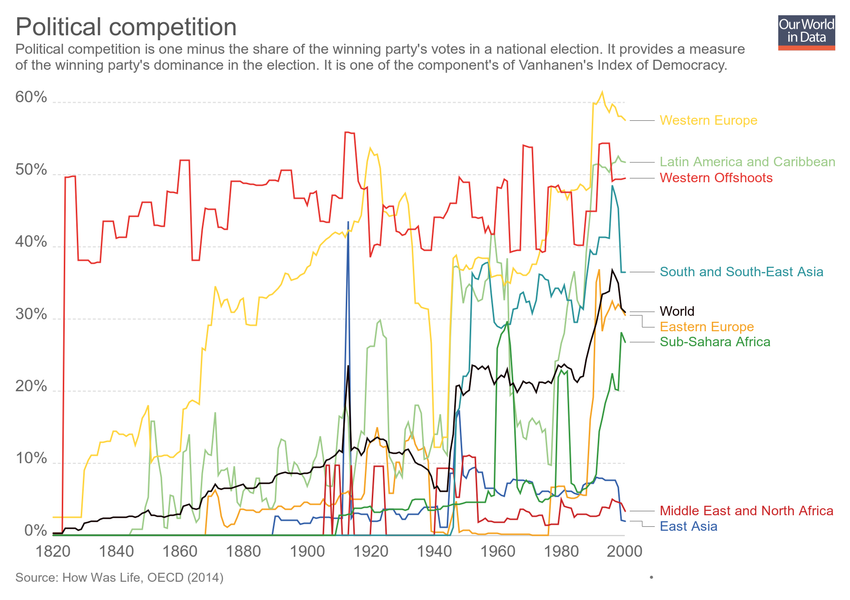
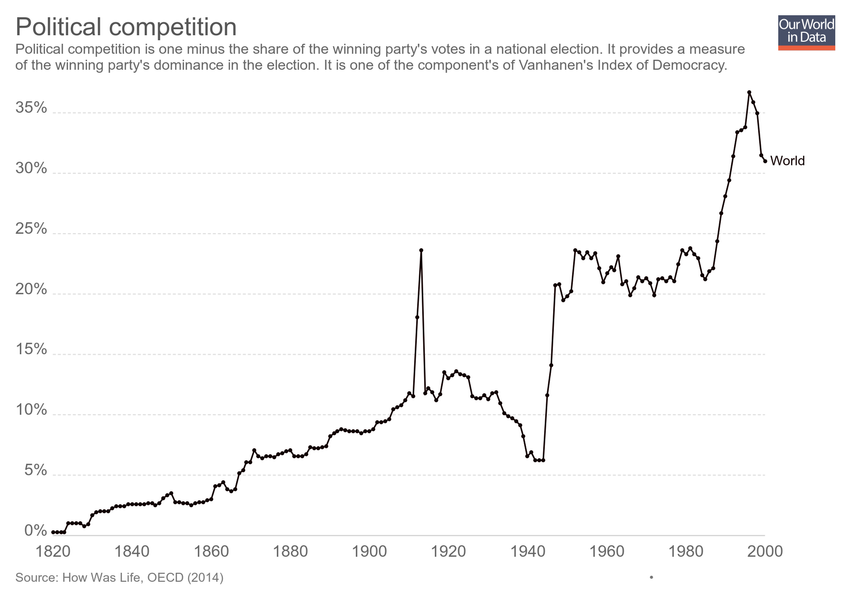
Updating chart political-competition-iod

diff --git a/grapher/rate-of-internationally-observed-elections.html b/grapher/rate-of-internationally-observed-elections.html
@@ -1,4 +1,4 @@
-<!doctype html><html><head><meta name="viewport" content="width=device-width, initial-scale=1" /><title>Internationally observed elections (%) - Our World in Data</title><meta name="description" content="Percentage of internationally observed elections and whether they were criticized by international observers. Figures cover 1,754 election events in 157 independent states, excluding those with population less than 250,000." /><link rel="canonical" href="https://ourworldindata.org/grapher/rate-of-internationally-observed-elections" /><meta property="fb:app_id" content="1149943818390250" /><meta property="og:url" content="https://ourworldindata.org/grapher/rate-of-internationally-observed-elections" /><meta property="og:title" content="Internationally observed elections (%)" /><meta property="og:description" content="Percentage of internationally observed elections and whether they were criticized by international observers. Figures cover 1,754 election events in 157 independent states, excluding those with population less than 250,000." /><meta property="og:image" content="https://ourworldindata.org/grapher/exports/rate-of-internationally-observed-elections.png?v=16" /><meta property="og:image:width" content="850" /><meta property="og:image:height" content="600" /><meta property="og:site_name" content="Our World in Data" /><meta name="twitter:card" content="summary_large_image" /><meta name="twitter:site" content="@OurWorldInData" /><meta name="twitter:creator" content="@OurWorldInData" /><meta name="twitter:title" content="Internationally observed elections (%)" /><meta name="twitter:description" content="Percentage of internationally observed elections and whether they were criticized by international observers. Figures cover 1,754 election events in 157 independent states, excluding those with population less than 250,000." /><meta name="twitter:image" content="https://ourworldindata.org/grapher/exports/rate-of-internationally-observed-elections.png?v=16" /><style>
+<!doctype html><html><head><meta name="viewport" content="width=device-width, initial-scale=1" /><title>Internationally observed elections by Western monitors - Our World in Data</title><meta name="description" content="Estimates correspond to the number of international elections that were either observed and criticized by Western monitors, observed and not criticized by Western monitors, or elections that were not observed by Western monitors. Criticism refers to allegations of significant vote-fraud." /><link rel="canonical" href="https://ourworldindata.org/grapher/rate-of-internationally-observed-elections" /><meta property="fb:app_id" content="1149943818390250" /><meta property="og:url" content="https://ourworldindata.org/grapher/rate-of-internationally-observed-elections" /><meta property="og:title" content="Internationally observed elections by Western monitors" /><meta property="og:description" content="Estimates correspond to the number of international elections that were either observed and criticized by Western monitors, observed and not criticized by Western monitors, or elections that were not observed by Western monitors. Criticism refers to allegations of significant vote-fraud." /><meta property="og:image" content="https://ourworldindata.org/grapher/exports/rate-of-internationally-observed-elections.png?v=11" /><meta property="og:image:width" content="850" /><meta property="og:image:height" content="600" /><meta property="og:site_name" content="Our World in Data" /><meta name="twitter:card" content="summary_large_image" /><meta name="twitter:site" content="@OurWorldInData" /><meta name="twitter:creator" content="@OurWorldInData" /><meta name="twitter:title" content="Internationally observed elections by Western monitors" /><meta name="twitter:description" content="Estimates correspond to the number of international elections that were either observed and criticized by Western monitors, observed and not criticized by Western monitors, or elections that were not observed by Western monitors. Criticism refers to allegations of significant vote-fraud." /><meta name="twitter:image" content="https://ourworldindata.org/grapher/exports/rate-of-internationally-observed-elections.png?v=11" /><style>
         html, body {
             height: 100%;
             margin: 0;
@@ -20,8 +20,8 @@
         }
     </style><noscript><style>
                     figure { display: none !important; }
-                </style></noscript><link rel="stylesheet" href="https://ourworldindata.org/grapher/assets/commons.bundle.ac09ff8f098f0c7be836.css" /><link rel="preload" href="/grapher/data/variables/97378+97379.json?v=16" as="fetch" crossorigin /></head><body class="singleChart"><figure data-grapher-src="/grapher/rate-of-internationally-observed-elections"></figure><noscript id="fallback"><img src="/grapher/exports/rate-of-internationally-observed-elections.svg" /><p>Interactive visualization requires JavaScript</p></noscript><script src="https://cdn.polyfill.io/v2/polyfill.min.js?features=es6,fetch"></script><script src="https://ourworldindata.org/grapher/assets/commons.bundle.ac09ff8f098f0c7be836.js"></script><script src="https://ourworldindata.org/grapher/assets/charts.bundle.dcf65b68eddaba4c6a58.js"></script><script>
-        var jsonConfig = {"id":2589,"map":{"projection":"World","colorSchemeLabels":[],"colorSchemeValues":[],"colorSchemeMinValue":0,"customNumericColors":[],"customCategoryColors":{},"customCategoryLabels":{},"customHiddenCategories":{}},"tab":"chart","slug":"rate-of-internationally-observed-elections","type":"StackedArea","title":"Internationally observed elections (%)","xAxis":{"scaleType":"linear"},"yAxis":{"max":80,"min":0,"scaleType":"linear"},"version":16,"subtitle":"Percentage of internationally observed elections and whether they were criticized by international observers. Figures cover 1,754 election events in 157 independent states, excluding those with population less than 250,000.","hasMapTab":false,"stackMode":"absolute","dimensions":[{"display":{"name":"Percent of elections observed and criticised","unit":"%"},"property":"y","variableId":97378},{"display":{"name":"Percent of elections observed and not criticised"},"property":"y","variableId":97379}],"hasChartTab":true,"isPublished":true,"selectedData":[{"index":0,"entityId":355},{"index":1,"entityId":355}],"addCountryMode":"change-country","baseColorScheme":"Plasma","hideRelativeToggle":true,"hideTitleAnnotation":true};
+                </style></noscript><link rel="stylesheet" href="https://ourworldindata.org/grapher/assets/commons.bundle.ac09ff8f098f0c7be836.css" /><link rel="preload" href="/grapher/data/variables/97399+97400+97401.json?v=11" as="fetch" crossorigin /></head><body class="singleChart"><figure data-grapher-src="/grapher/rate-of-internationally-observed-elections"></figure><noscript id="fallback"><img src="/grapher/exports/rate-of-internationally-observed-elections.svg" /><p>Interactive visualization requires JavaScript</p></noscript><script src="https://cdn.polyfill.io/v2/polyfill.min.js?features=es6,fetch"></script><script src="https://ourworldindata.org/grapher/assets/commons.bundle.ac09ff8f098f0c7be836.js"></script><script src="https://ourworldindata.org/grapher/assets/charts.bundle.dcf65b68eddaba4c6a58.js"></script><script>
+        var jsonConfig = {"id":2598,"map":{"projection":"World","colorSchemeLabels":[],"colorSchemeValues":[],"customNumericColors":[],"customCategoryColors":{},"customCategoryLabels":{},"customHiddenCategories":{}},"tab":"chart","note":"Includes 2435 election events in 162 countries","slug":"rate-of-internationally-observed-elections","type":"StackedArea","title":"Internationally observed elections by Western monitors","xAxis":{"scaleType":"linear"},"yAxis":{"min":0,"scaleType":"linear"},"version":11,"subtitle":"Estimates correspond to the number of international elections that were either observed and criticized by Western monitors, observed and not criticized by Western monitors, or elections that were not observed by Western monitors. Criticism refers to allegations of significant vote-fraud.","hasMapTab":false,"stackMode":"relative","dimensions":[{"display":{"name":"Elections not observed","unit":"elections","shortUnit":""},"property":"y","variableId":97399},{"display":{"name":"Elections observed and criticized"},"property":"y","variableId":97400},{"display":{"name":"Elections observed and not critcized"},"property":"y","variableId":97401}],"hasChartTab":true,"isPublished":true,"selectedData":[{"color":"#3360a9","index":0,"entityId":355},{"color":"#5eb77e","index":2,"entityId":355},{"color":"#ca2628","index":1,"entityId":355}],"addCountryMode":"change-country","baseColorScheme":"owid-distinct","invertColorScheme":true,"hideTitleAnnotation":true};
         var figure = document.getElementsByTagName("figure")[0];
         try {
             window.App = {};

diff --git a/grapher/political-competition-iod.html b/grapher/political-competition-iod.html
@@ -1,4 +1,4 @@
-<!doctype html><html><head><meta name="viewport" content="width=device-width, initial-scale=1" /><title>Political competition - Our World in Data</title><meta name="description" content="Political competition is one minus the share of the winning party's votes in a national election. It provides a measure of the winning party's dominance in the election. It is one of the component's of Vanhanen's Index of Democracy." /><link rel="canonical" href="https://ourworldindata.org/grapher/political-competition-iod" /><meta property="fb:app_id" content="1149943818390250" /><meta property="og:url" content="https://ourworldindata.org/grapher/political-competition-iod" /><meta property="og:title" content="Political competition" /><meta property="og:description" content="Political competition is one minus the share of the winning party's votes in a national election. It provides a measure of the winning party's dominance in the election. It is one of the component's of Vanhanen's Index of Democracy." /><meta property="og:image" content="https://ourworldindata.org/grapher/exports/political-competition-iod.png?v=4" /><meta property="og:image:width" content="850" /><meta property="og:image:height" content="600" /><meta property="og:site_name" content="Our World in Data" /><meta name="twitter:card" content="summary_large_image" /><meta name="twitter:site" content="@OurWorldInData" /><meta name="twitter:creator" content="@OurWorldInData" /><meta name="twitter:title" content="Political competition" /><meta name="twitter:description" content="Political competition is one minus the share of the winning party's votes in a national election. It provides a measure of the winning party's dominance in the election. It is one of the component's of Vanhanen's Index of Democracy." /><meta name="twitter:image" content="https://ourworldindata.org/grapher/exports/political-competition-iod.png?v=4" /><style>
+<!doctype html><html><head><meta name="viewport" content="width=device-width, initial-scale=1" /><title>Political competition - Our World in Data</title><meta name="description" content="Political competition is one minus the share of the winning party's votes in a national election. It provides a measure of the winning party's dominance in the election. It is one of the component's of Vanhanen's Index of Democracy." /><link rel="canonical" href="https://ourworldindata.org/grapher/political-competition-iod" /><meta property="fb:app_id" content="1149943818390250" /><meta property="og:url" content="https://ourworldindata.org/grapher/political-competition-iod" /><meta property="og:title" content="Political competition" /><meta property="og:description" content="Political competition is one minus the share of the winning party's votes in a national election. It provides a measure of the winning party's dominance in the election. It is one of the component's of Vanhanen's Index of Democracy." /><meta property="og:image" content="https://ourworldindata.org/grapher/exports/political-competition-iod.png?v=5" /><meta property="og:image:width" content="850" /><meta property="og:image:height" content="600" /><meta property="og:site_name" content="Our World in Data" /><meta name="twitter:card" content="summary_large_image" /><meta name="twitter:site" content="@OurWorldInData" /><meta name="twitter:creator" content="@OurWorldInData" /><meta name="twitter:title" content="Political competition" /><meta name="twitter:description" content="Political competition is one minus the share of the winning party's votes in a national election. It provides a measure of the winning party's dominance in the election. It is one of the component's of Vanhanen's Index of Democracy." /><meta name="twitter:image" content="https://ourworldindata.org/grapher/exports/political-competition-iod.png?v=5" /><style>
         html, body {
             height: 100%;
             margin: 0;
@@ -20,8 +20,8 @@
         }
     </style><noscript><style>
                     figure { display: none !important; }
-                </style></noscript><link rel="stylesheet" href="https://ourworldindata.org/grapher/assets/commons.bundle.ac09ff8f098f0c7be836.css" /><link rel="preload" href="/grapher/data/variables/85933.json?v=4" as="fetch" crossorigin /></head><body class="singleChart"><figure data-grapher-src="/grapher/political-competition-iod"></figure><noscript id="fallback"><img src="/grapher/exports/political-competition-iod.svg" /><p>Interactive visualization requires JavaScript</p></noscript><script src="https://cdn.polyfill.io/v2/polyfill.min.js?features=es6,fetch"></script><script src="https://ourworldindata.org/grapher/assets/commons.bundle.ac09ff8f098f0c7be836.js"></script><script src="https://ourworldindata.org/grapher/assets/charts.bundle.dcf65b68eddaba4c6a58.js"></script><script>
-        var jsonConfig = {"id":2341,"map":{"projection":"World","colorSchemeLabels":[],"colorSchemeValues":[],"colorSchemeMinValue":0,"customNumericColors":[],"customCategoryColors":{},"customCategoryLabels":{},"customHiddenCategories":{}},"tab":"chart","slug":"political-competition-iod","type":"LineChart","title":"Political competition","xAxis":{"scaleType":"linear"},"yAxis":{"min":0,"scaleType":"linear"},"version":4,"subtitle":"Political competition is one minus the share of the winning party's votes in a national election. It provides a measure of the winning party's dominance in the election. It is one of the component's of Vanhanen's Index of Democracy.","hasMapTab":false,"stackMode":"absolute","dimensions":[{"display":{},"property":"y","variableId":85933}],"hasChartTab":true,"isPublished":true,"selectedData":[{"index":0,"entityId":34613},{"index":0,"entityId":473},{"index":0,"entityId":34620},{"index":0,"entityId":301},{"index":0,"entityId":36553},{"index":0,"entityId":36554},{"index":0,"entityId":476},{"index":0,"entityId":36437},{"color":"#100","index":0,"entityId":355}],"addCountryMode":"add-country"};
+                </style></noscript><link rel="stylesheet" href="https://ourworldindata.org/grapher/assets/commons.bundle.ac09ff8f098f0c7be836.css" /><link rel="preload" href="/grapher/data/variables/85933.json?v=5" as="fetch" crossorigin /></head><body class="singleChart"><figure data-grapher-src="/grapher/political-competition-iod"></figure><noscript id="fallback"><img src="/grapher/exports/political-competition-iod.svg" /><p>Interactive visualization requires JavaScript</p></noscript><script src="https://cdn.polyfill.io/v2/polyfill.min.js?features=es6,fetch"></script><script src="https://ourworldindata.org/grapher/assets/commons.bundle.ac09ff8f098f0c7be836.js"></script><script src="https://ourworldindata.org/grapher/assets/charts.bundle.dcf65b68eddaba4c6a58.js"></script><script>
+        var jsonConfig = {"id":2341,"map":{"projection":"World","colorSchemeLabels":[],"colorSchemeValues":[],"colorSchemeMinValue":0,"customNumericColors":[],"customCategoryColors":{},"customCategoryLabels":{},"customHiddenCategories":{}},"tab":"chart","slug":"political-competition-iod","type":"LineChart","title":"Political competition","xAxis":{"scaleType":"linear"},"yAxis":{"min":0,"scaleType":"linear"},"version":5,"subtitle":"Political competition is one minus the share of the winning party's votes in a national election. It provides a measure of the winning party's dominance in the election. It is one of the component's of Vanhanen's Index of Democracy.","hasMapTab":false,"stackMode":"absolute","dimensions":[{"display":{},"property":"y","variableId":85933}],"hasChartTab":true,"isPublished":true,"selectedData":[{"color":"#100","index":0,"entityId":355}],"addCountryMode":"add-country"};
         var figure = document.getElementsByTagName("figure")[0];
         try {
             window.App = {};

diff --git a/grapher/political-participation-iod.html b/grapher/political-participation-iod.html
@@ -1,4 +1,4 @@
-<!doctype html><html><head><meta name="viewport" content="width=device-width, initial-scale=1" /><title>Political participation - Our World in Data</title><meta name="description" content="Share of the adult population who voted in previous elections.  It is one of the component's of Vanhanen's Index of Democracy, alongside political competition." /><link rel="canonical" href="https://ourworldindata.org/grapher/political-participation-iod" /><meta property="fb:app_id" content="1149943818390250" /><meta property="og:url" content="https://ourworldindata.org/grapher/political-participation-iod" /><meta property="og:title" content="Political participation" /><meta property="og:description" content="Share of the adult population who voted in previous elections.  It is one of the component's of Vanhanen's Index of Democracy, alongside political competition." /><meta property="og:image" content="https://ourworldindata.org/grapher/exports/political-participation-iod.png?v=6" /><meta property="og:image:width" content="850" /><meta property="og:image:height" content="600" /><meta property="og:site_name" content="Our World in Data" /><meta name="twitter:card" content="summary_large_image" /><meta name="twitter:site" content="@OurWorldInData" /><meta name="twitter:creator" content="@OurWorldInData" /><meta name="twitter:title" content="Political participation" /><meta name="twitter:description" content="Share of the adult population who voted in previous elections.  It is one of the component's of Vanhanen's Index of Democracy, alongside political competition." /><meta name="twitter:image" content="https://ourworldindata.org/grapher/exports/political-participation-iod.png?v=6" /><style>
+<!doctype html><html><head><meta name="viewport" content="width=device-width, initial-scale=1" /><title>Political participation - Our World in Data</title><meta name="description" content="Share of the adult population who voted in previous elections.  It is one of the component's of Vanhanen's Index of Democracy, alongside political competition." /><link rel="canonical" href="https://ourworldindata.org/grapher/political-participation-iod" /><meta property="fb:app_id" content="1149943818390250" /><meta property="og:url" content="https://ourworldindata.org/grapher/political-participation-iod" /><meta property="og:title" content="Political participation" /><meta property="og:description" content="Share of the adult population who voted in previous elections.  It is one of the component's of Vanhanen's Index of Democracy, alongside political competition." /><meta property="og:image" content="https://ourworldindata.org/grapher/exports/political-participation-iod.png?v=8" /><meta property="og:image:width" content="850" /><meta property="og:image:height" content="600" /><meta property="og:site_name" content="Our World in Data" /><meta name="twitter:card" content="summary_large_image" /><meta name="twitter:site" content="@OurWorldInData" /><meta name="twitter:creator" content="@OurWorldInData" /><meta name="twitter:title" content="Political participation" /><meta name="twitter:description" content="Share of the adult population who voted in previous elections.  It is one of the component's of Vanhanen's Index of Democracy, alongside political competition." /><meta name="twitter:image" content="https://ourworldindata.org/grapher/exports/political-participation-iod.png?v=8" /><style>
         html, body {
             height: 100%;
             margin: 0;
@@ -20,8 +20,8 @@
         }
     </style><noscript><style>
                     figure { display: none !important; }
-                </style></noscript><link rel="stylesheet" href="https://ourworldindata.org/grapher/assets/commons.bundle.ac09ff8f098f0c7be836.css" /><link rel="preload" href="/grapher/data/variables/85932.json?v=6" as="fetch" crossorigin /></head><body class="singleChart"><figure data-grapher-src="/grapher/political-participation-iod"></figure><noscript id="fallback"><img src="/grapher/exports/political-participation-iod.svg" /><p>Interactive visualization requires JavaScript</p></noscript><script src="https://cdn.polyfill.io/v2/polyfill.min.js?features=es6,fetch"></script><script src="https://ourworldindata.org/grapher/assets/commons.bundle.ac09ff8f098f0c7be836.js"></script><script src="https://ourworldindata.org/grapher/assets/charts.bundle.dcf65b68eddaba4c6a58.js"></script><script>
-        var jsonConfig = {"id":2340,"map":{"projection":"World","colorSchemeLabels":[],"colorSchemeValues":[],"colorSchemeMinValue":0,"customNumericColors":[],"customCategoryColors":{},"customCategoryLabels":{},"customHiddenCategories":{}},"tab":"chart","slug":"political-participation-iod","type":"LineChart","title":"Political participation","xAxis":{"scaleType":"linear"},"yAxis":{"min":0,"scaleType":"linear"},"version":6,"subtitle":"Share of the adult population who voted in previous elections.  It is one of the component's of Vanhanen's Index of Democracy, alongside political competition.","hasMapTab":false,"stackMode":"absolute","dimensions":[{"display":{},"property":"y","variableId":85932}],"hasChartTab":true,"isPublished":true,"selectedData":[{"index":0,"entityId":34613},{"index":0,"entityId":473},{"index":0,"entityId":34620},{"index":0,"entityId":301},{"index":0,"entityId":36553},{"index":0,"entityId":36554},{"index":0,"entityId":476},{"index":0,"entityId":36437},{"color":"#100","index":0,"entityId":355}],"addCountryMode":"add-country"};
+                </style></noscript><link rel="stylesheet" href="https://ourworldindata.org/grapher/assets/commons.bundle.ac09ff8f098f0c7be836.css" /><link rel="preload" href="/grapher/data/variables/85932.json?v=8" as="fetch" crossorigin /></head><body class="singleChart"><figure data-grapher-src="/grapher/political-participation-iod"></figure><noscript id="fallback"><img src="/grapher/exports/political-participation-iod.svg" /><p>Interactive visualization requires JavaScript</p></noscript><script src="https://cdn.polyfill.io/v2/polyfill.min.js?features=es6,fetch"></script><script src="https://ourworldindata.org/grapher/assets/commons.bundle.ac09ff8f098f0c7be836.js"></script><script src="https://ourworldindata.org/grapher/assets/charts.bundle.dcf65b68eddaba4c6a58.js"></script><script>
+        var jsonConfig = {"id":2340,"map":{"projection":"World","colorSchemeLabels":[],"colorSchemeValues":[],"colorSchemeMinValue":0,"customNumericColors":[],"customCategoryColors":{},"customCategoryLabels":{},"customHiddenCategories":{}},"tab":"chart","slug":"political-participation-iod","type":"LineChart","title":"Political participation","xAxis":{"scaleType":"linear"},"yAxis":{"min":0,"scaleType":"linear"},"version":8,"subtitle":"Share of the adult population who voted in previous elections.  It is one of the component's of Vanhanen's Index of Democracy, alongside political competition.","hasMapTab":false,"stackMode":"absolute","dimensions":[{"display":{},"property":"y","variableId":85932}],"hasChartTab":true,"isPublished":true,"selectedData":[{"color":"#100","index":0,"entityId":355}],"addCountryMode":"add-country"};
         var figure = document.getElementsByTagName("figure")[0];
         try {
             window.App = {};
